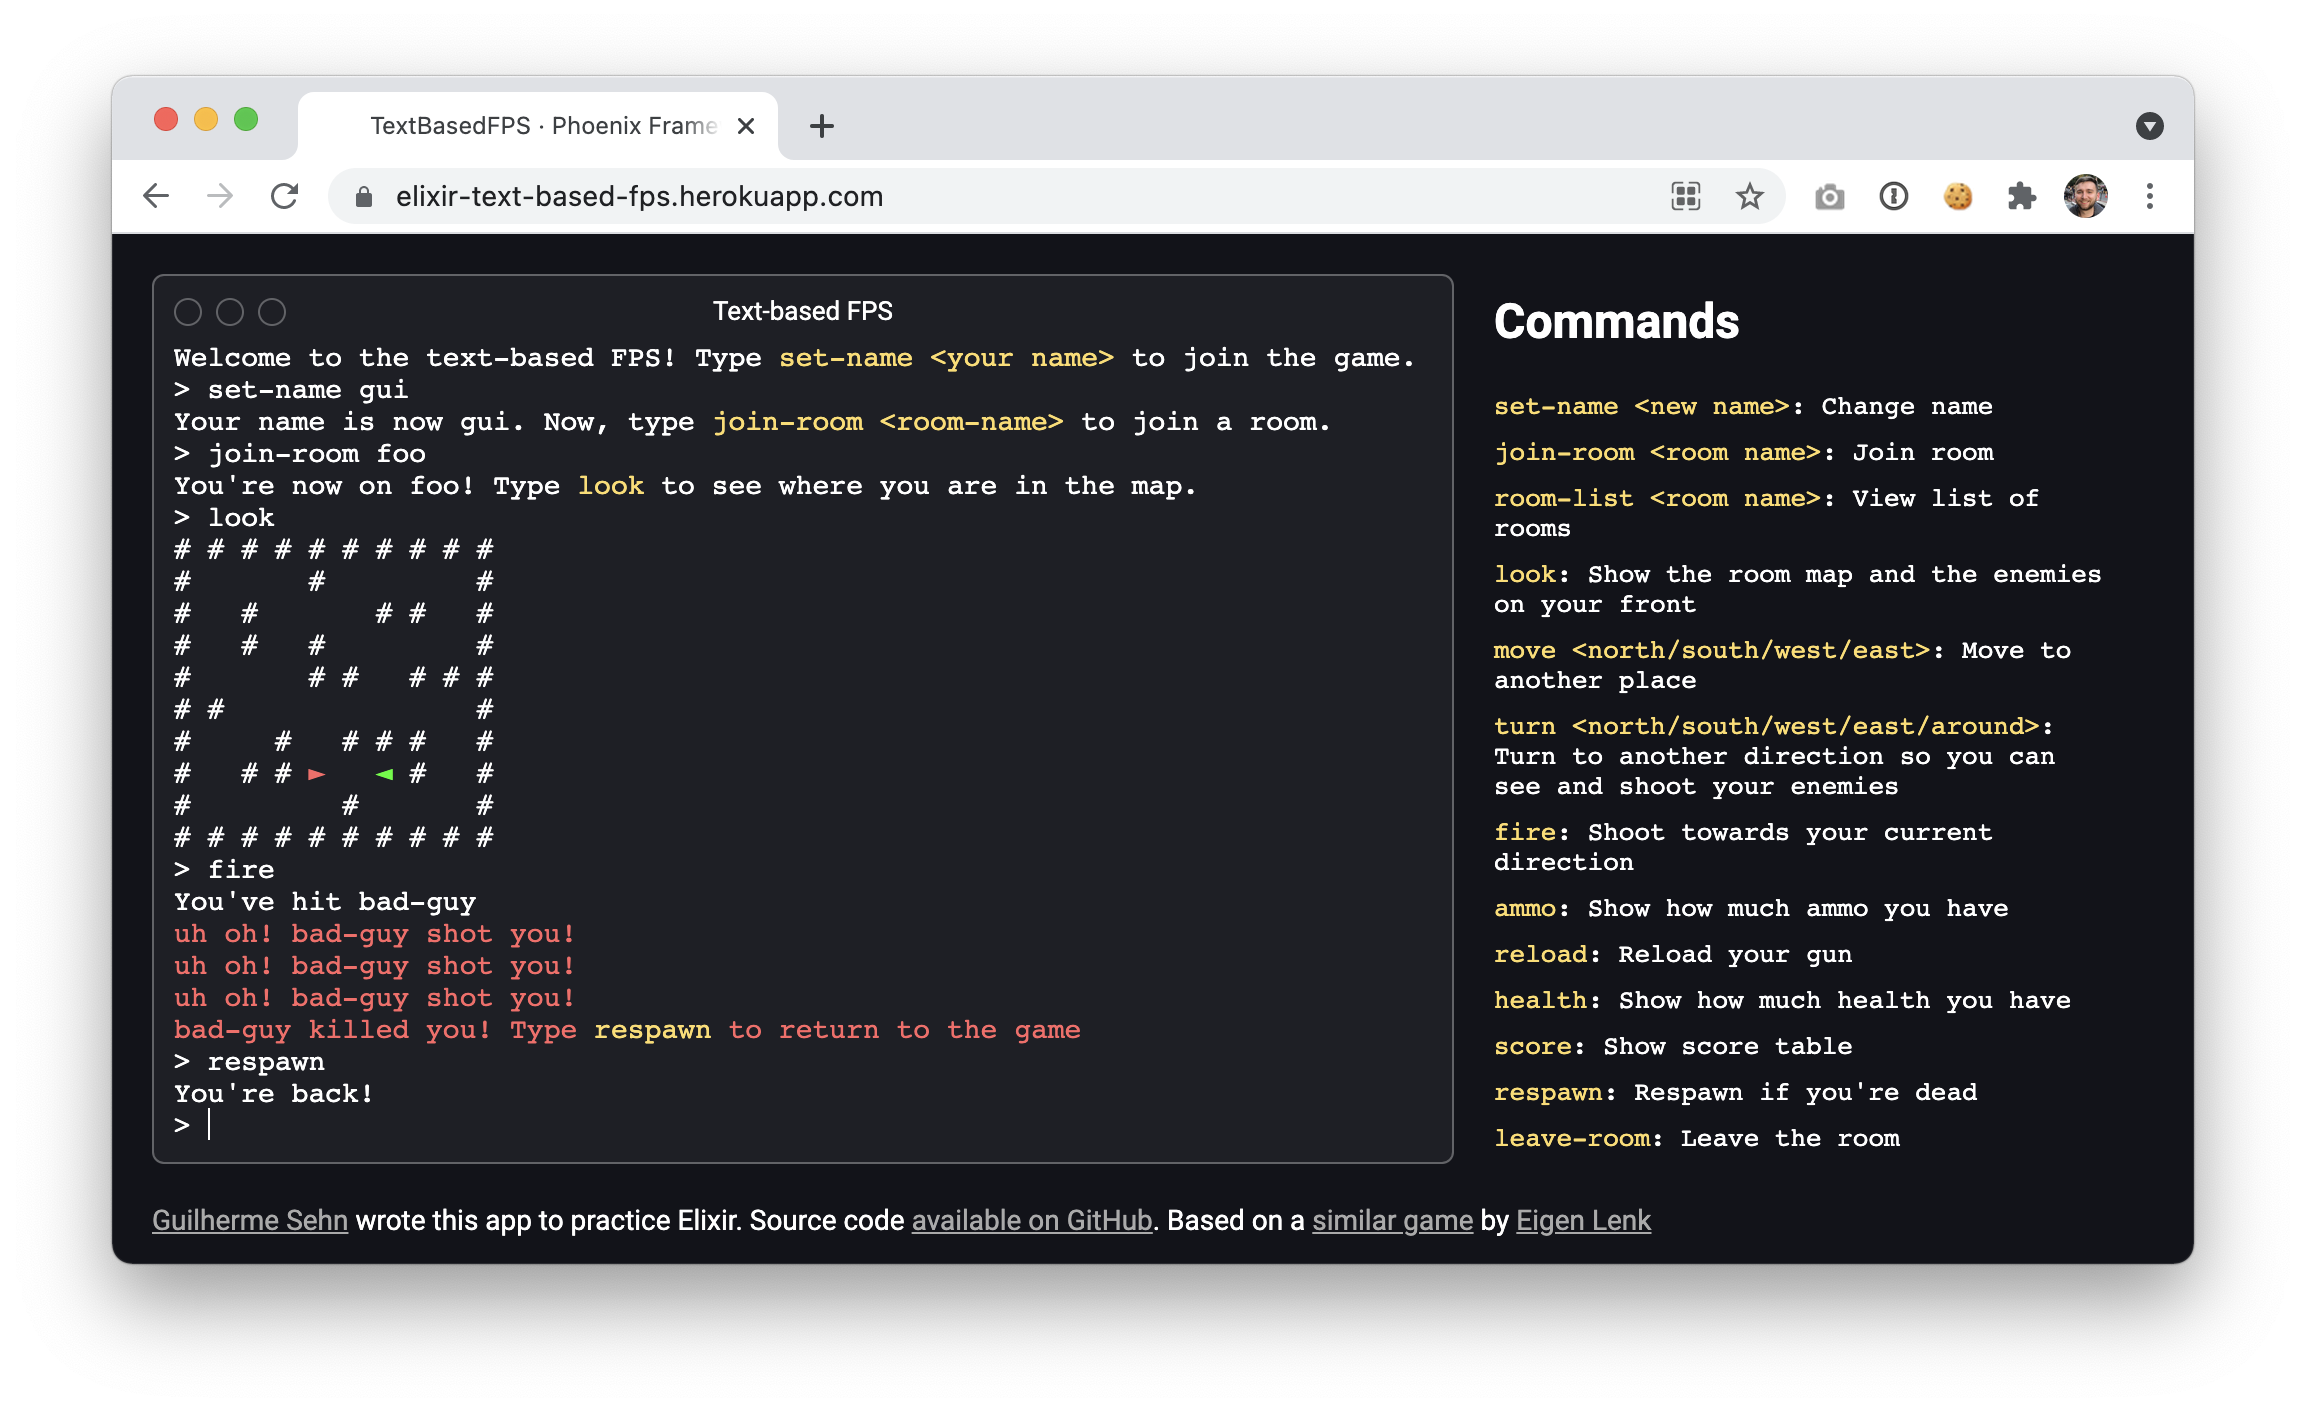
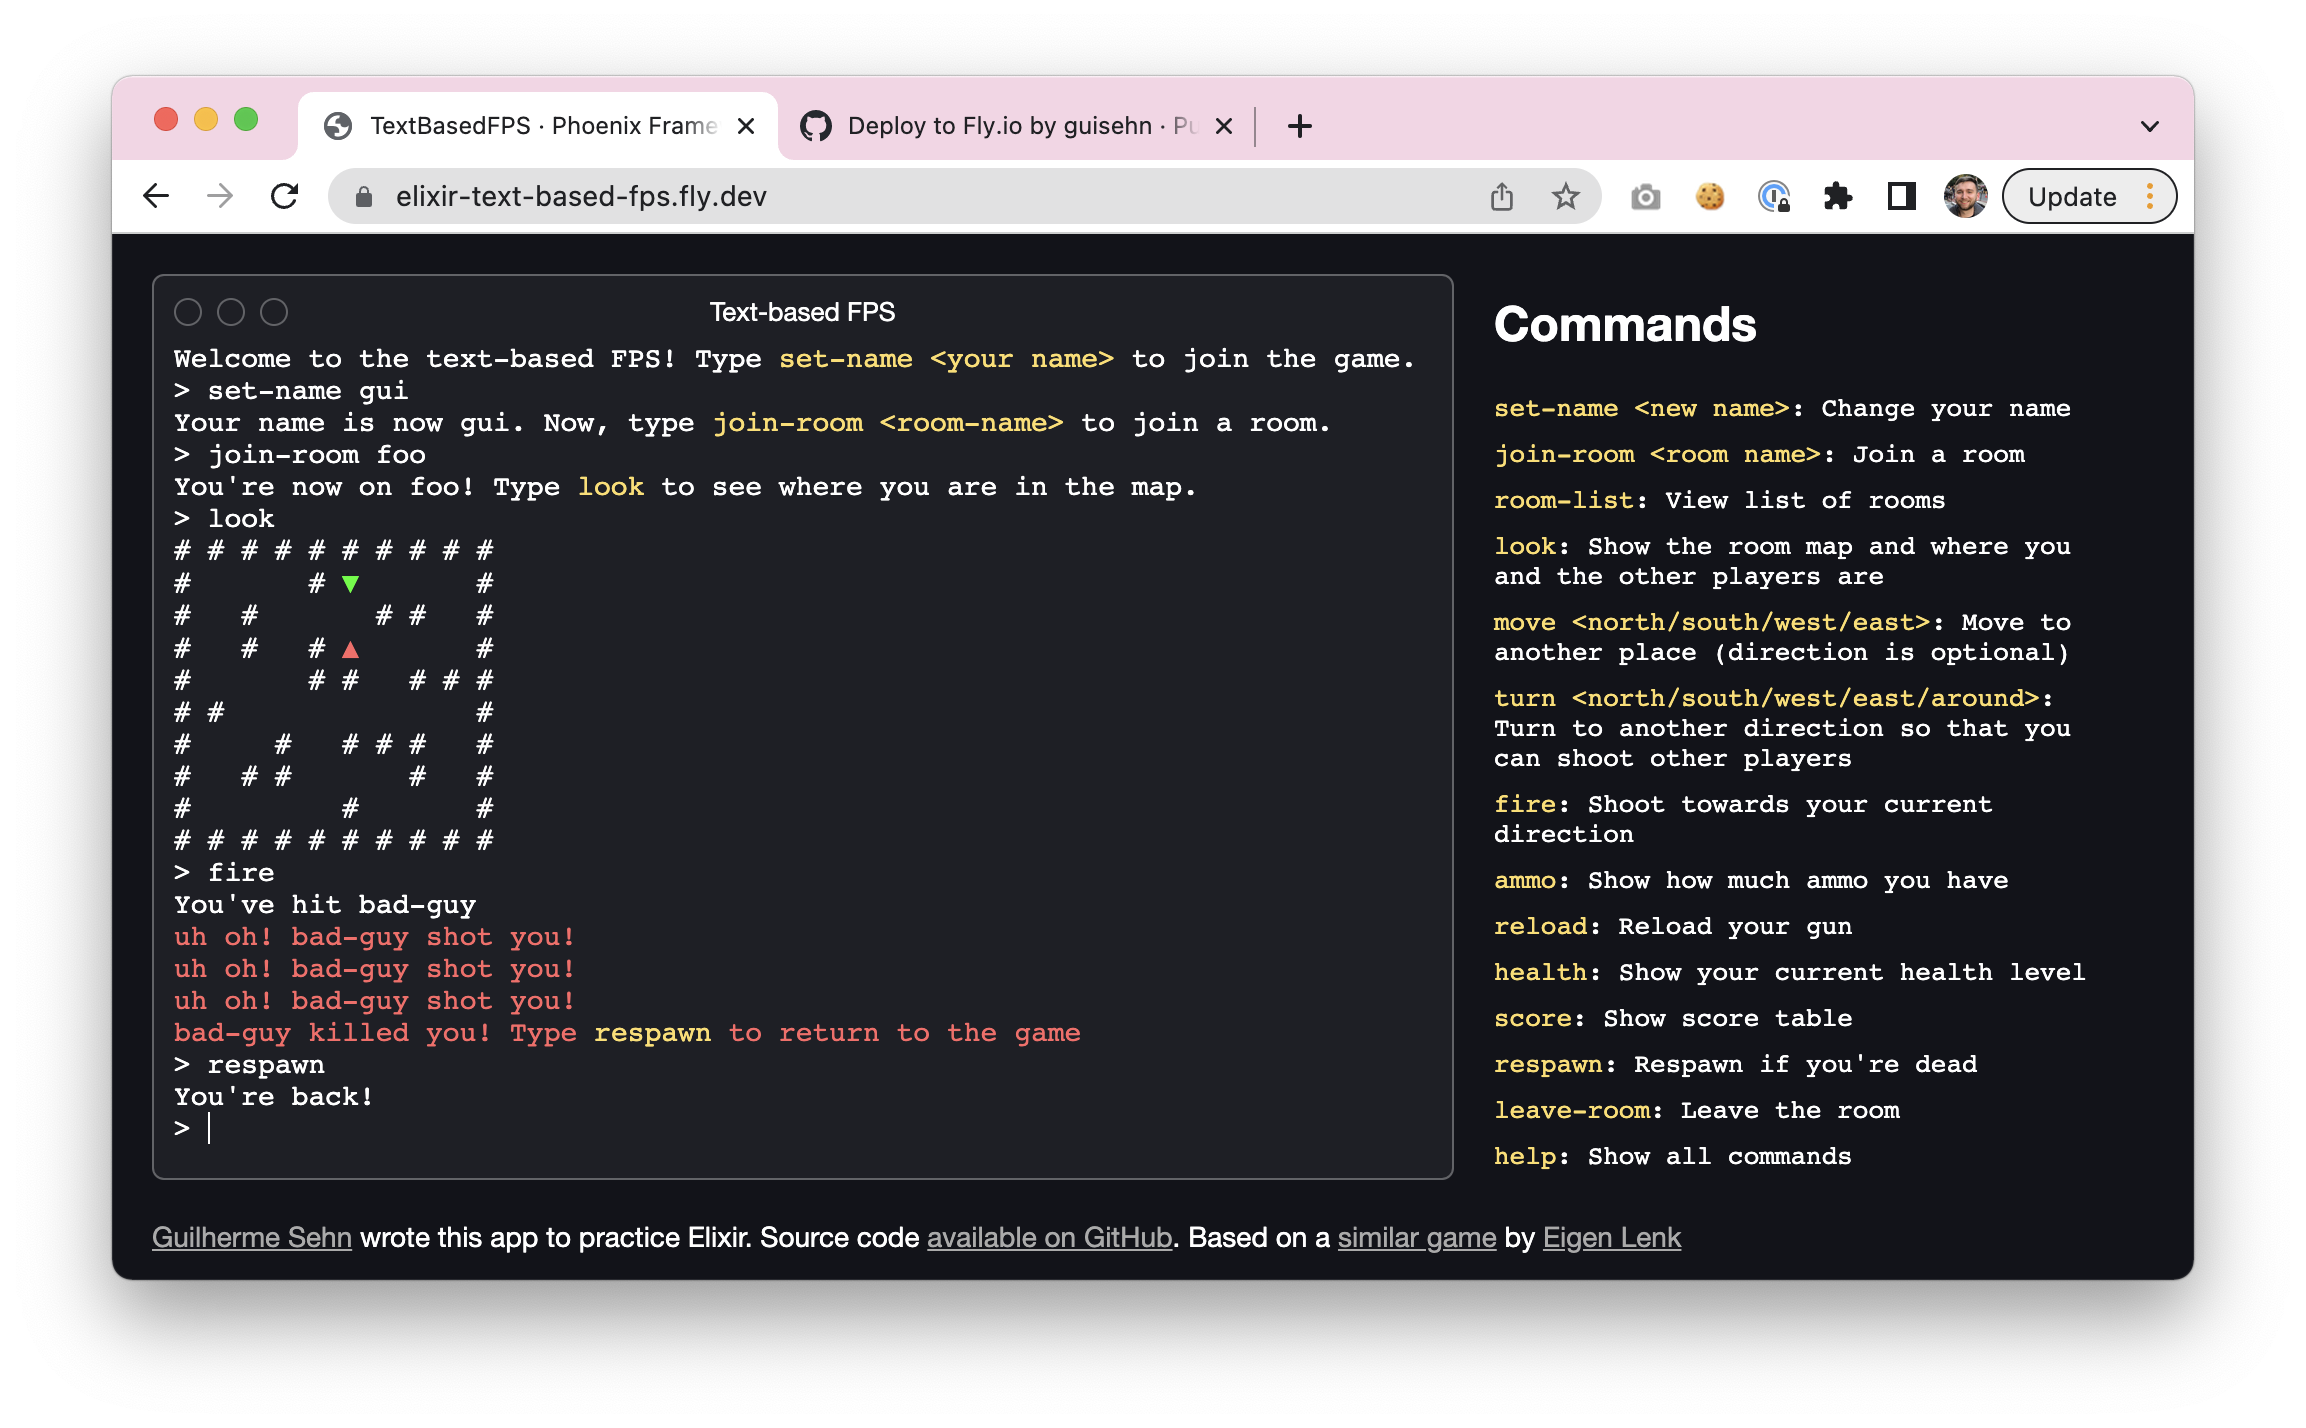
update README

diff --git a/README.md b/README.md
@@ -1,6 +1,6 @@
 # elixir-text-based-fps
 
-Online multiplayer text-based FPS game using Elixir + Phoenix.
+Online multiplayer text-based FPS game using Elixir + Phoenix. The game is live at [elixir-text-based-fps.fly.dev](https://elixir-text-based-fps.fly.dev/)
 
 ![Screenshot of the game](misc/screenshot.png)
 
